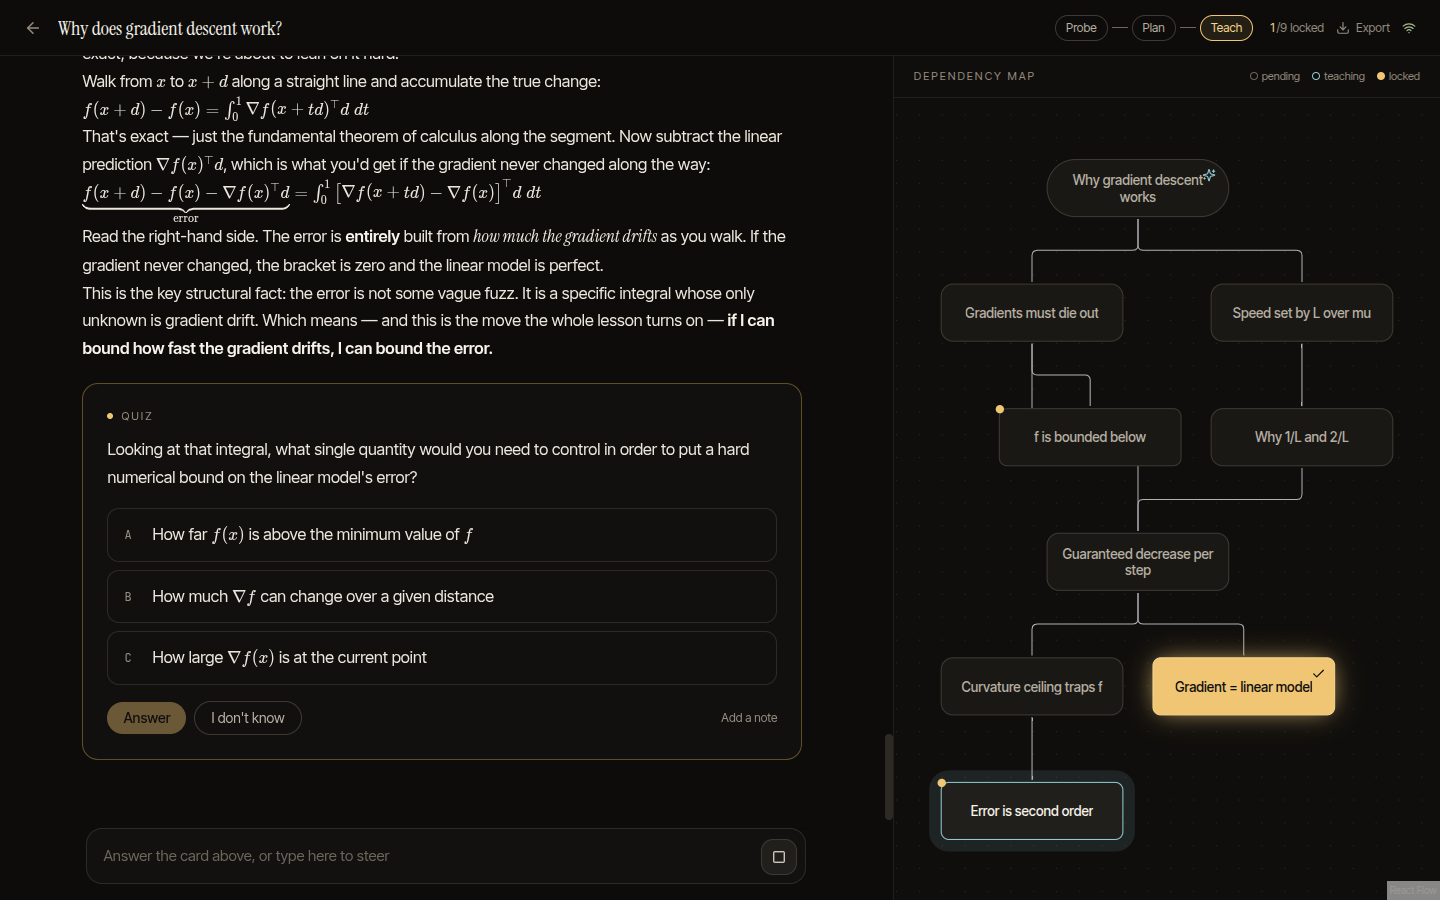
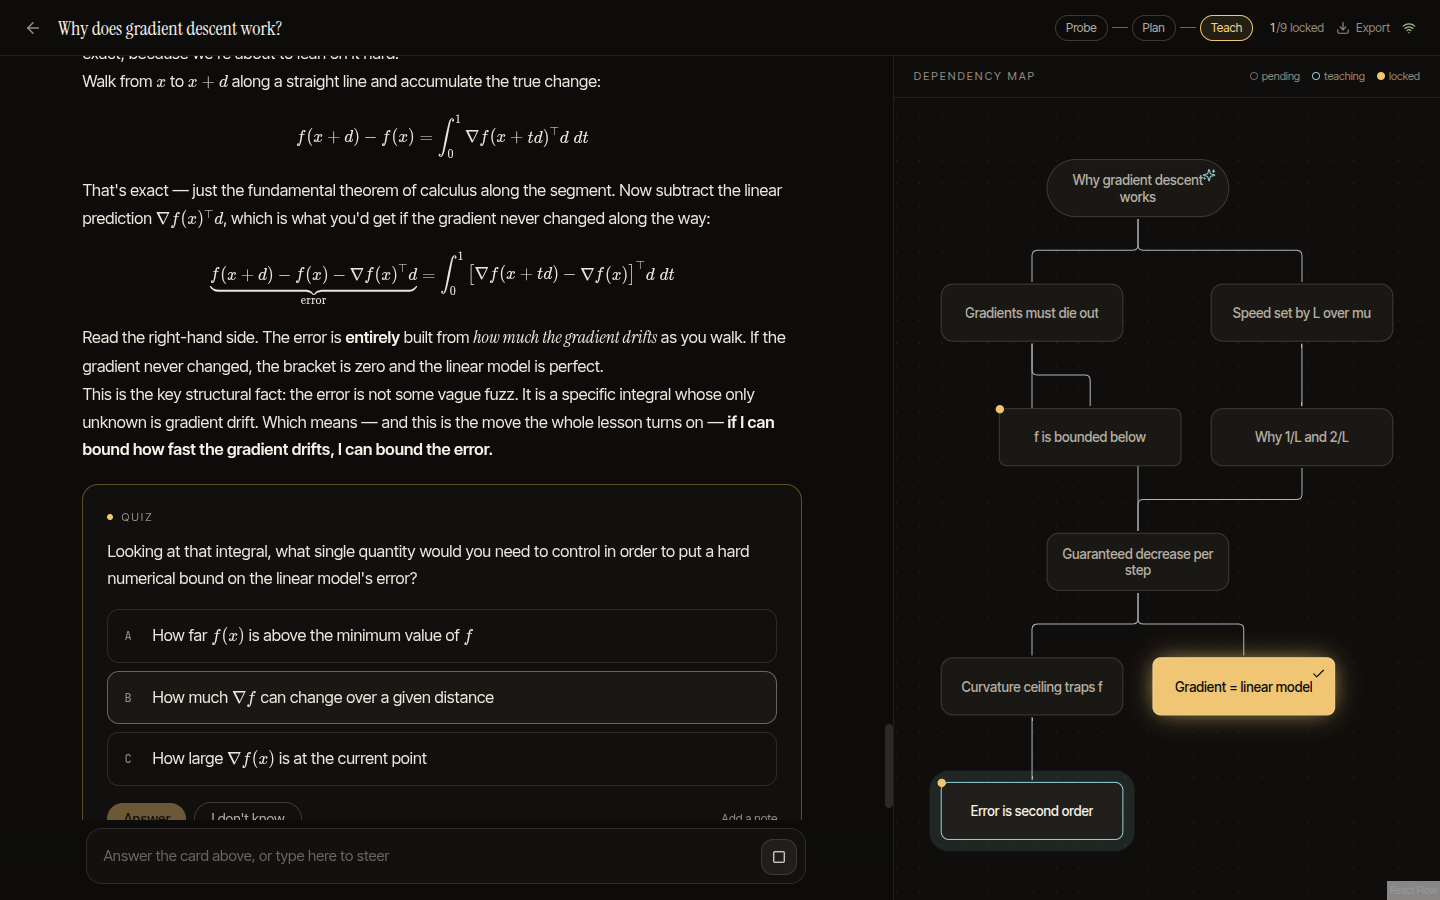
Render single-line $$...$$ as display math
Claude-Session: https://claude.ai/code/session_0138VH3m89janpor9TfCFyrh

Changed region(s): [[0.0625, 0.0933, 0.5625, 0.56], [0.0625, 0.5911, 0.5312, 0.9333], [0.5, 0.7778, 0.5312, 0.8089]]

diff --git a/web/src/components/Markdown.tsx b/web/src/components/Markdown.tsx
@@ -1,4 +1,4 @@
-import { memo, useEffect, useId, useRef, useState } from 'react';
+import { memo, useEffect, useId, useMemo, useRef, useState } from 'react';
 import ReactMarkdown from 'react-markdown';
 import rehypeKatex from 'rehype-katex';
 import remarkGfm from 'remark-gfm';
@@ -65,7 +65,17 @@ function Mermaid({ code, done }: { code: string; done: boolean }) {
   return <div ref={ref} className="mermaid-box rounded-xl border border-ink-700 bg-ink-900 p-3 flex justify-center" />;
 }
 
+/**
+ * remark-math treats a single-line `$$...$$` as inline math. Models write
+ * display math that way constantly, so promote any line that is entirely a
+ * `$$...$$` expression into a real display block.
+ */
+function promoteDisplayMath(md: string) {
+  return md.replace(/^[ \t]*\$\$([^\n]+?)\$\$[ \t]*$/gm, (_m, inner: string) => `$$\n${inner.trim()}\n$$`);
+}
+
 export const Markdown = memo(function Markdown({ text, streaming = false }: { text: string; streaming?: boolean }) {
+  const source = useMemo(() => promoteDisplayMath(text), [text]);
   return (
     <div className="prose">
       <ReactMarkdown
@@ -91,7 +101,7 @@ export const Markdown = memo(function Markdown({ text, streaming = false }: { te
           },
         }}
       >
-        {text}
+        {source}
       </ReactMarkdown>
     </div>
   );
